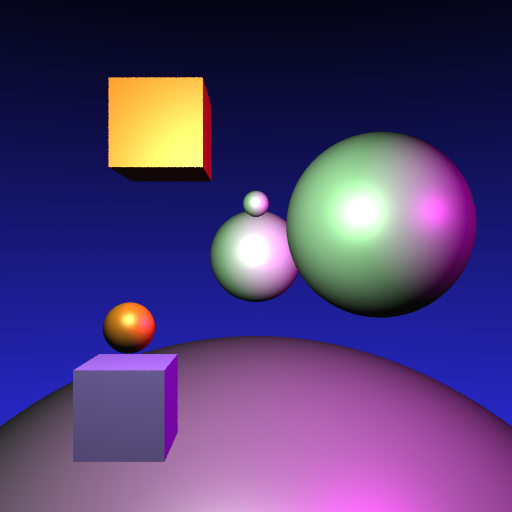
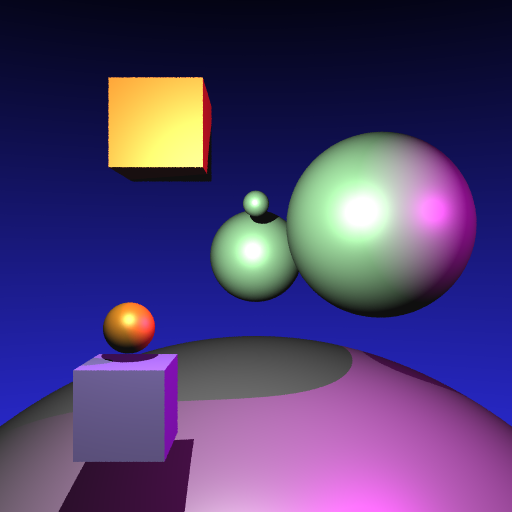
A4: hier rendering done for the first time

diff --git a/A4/SceneNode.cpp b/A4/SceneNode.cpp
@@ -7,7 +7,7 @@
 
 #include <iostream>
 #include <sstream>
-#include <queue>
+#include <stack>
 using namespace std;
 
 #include <glm/glm.hpp>
@@ -117,25 +117,55 @@ void hitDfs(
 	float t_max, 
 	HitRecord &record,
 	bool &hit_anything,
-	double &closest_so_far
+	double &closest_so_far,
+	glm::mat4 &M
 	) 
 {
+	
+	if (node == nullptr) return;
 
-	for (const SceneNode *child: node->children) {
-		if (child->m_nodeType != NodeType::GeometryNode)
-			continue;
+	M = node->get_transform() * M;
 
-		const GeometryNode *geometryNode = static_cast<const GeometryNode *>(child);
+	if (node->m_nodeType == NodeType::GeometryNode) {
+		const GeometryNode *geometryNode = static_cast<const GeometryNode *>(node);
+
+		vec3 a = ray.getOrigin();
+		vec3 b = ray.getDirection();
+		vec4 transformedOrigin = glm::inverse(M) * vec4(a.x, a.y, a.z, 1.0);
+		vec4 transformedDirection = glm::inverse(M) * vec4(b.x, b.y, b.z, 0.0);
+
+		Ray transformedRay(
+			vec3(transformedOrigin.x, transformedOrigin.y, transformedOrigin.z),
+			vec3(transformedDirection.x, transformedDirection.y, transformedDirection.z)
+		);
 
 		HitRecord tempRecord;
 
-		if (geometryNode->m_primitive->hit(ray, t_min, closest_so_far, tempRecord)) {
+		if (geometryNode->m_primitive->hit(transformedRay, t_min, closest_so_far, tempRecord)) {
 			hit_anything = true;
 			tempRecord.material = geometryNode->m_material;
+			vec4 transformedNormal = 
+				glm::transpose(glm::inverse(M)) *
+				vec4(
+					tempRecord.normal.x,
+					tempRecord.normal.y,
+					tempRecord.normal.z,
+					0.0
+				);
+			tempRecord.normal = vec3(
+				transformedNormal.x, transformedNormal.y, transformedNormal.z
+			);
 			closest_so_far = tempRecord.t;
 			record = tempRecord;
 		}
 	}
+
+	for (const SceneNode *child: node->children) {
+		hitDfs(child, ray, t_min, t_max, record, hit_anything, closest_so_far, M);
+	}
+
+	M = node->get_inverse() * M;
+
 }
 
 //---------------------------------------------------------------------------------------
@@ -145,8 +175,25 @@ bool SceneNode::hit(const Ray &ray, float t_min, float t_max, HitRecord &record)
 	double closestSoFar = t_max;
 
 	const SceneNode *node = this;
+	glm::mat4 M(1.0f);
 
-	hitDfs(node, ray, t_min, t_max, record, hitAnything, closestSoFar);
+	// for (const SceneNode *child: node->children) {
+	// 	if (child->m_nodeType != NodeType::GeometryNode)
+	// 		continue;
+
+	// 	const GeometryNode *geometryNode = static_cast<const GeometryNode *>(child);
+
+	// 	HitRecord tempRecord;
+
+	// 	if (geometryNode->m_primitive->hit(ray, t_min, closest_so_far, tempRecord)) {
+	// 		hit_anything = true;
+	// 		tempRecord.material = geometryNode->m_material;
+	// 		closest_so_far = tempRecord.t;
+	// 		record = tempRecord;
+	// 	}
+	// }
+
+	hitDfs(node, ray, t_min, t_max, record, hitAnything, closestSoFar, M);
 
 	return hitAnything;
 }
